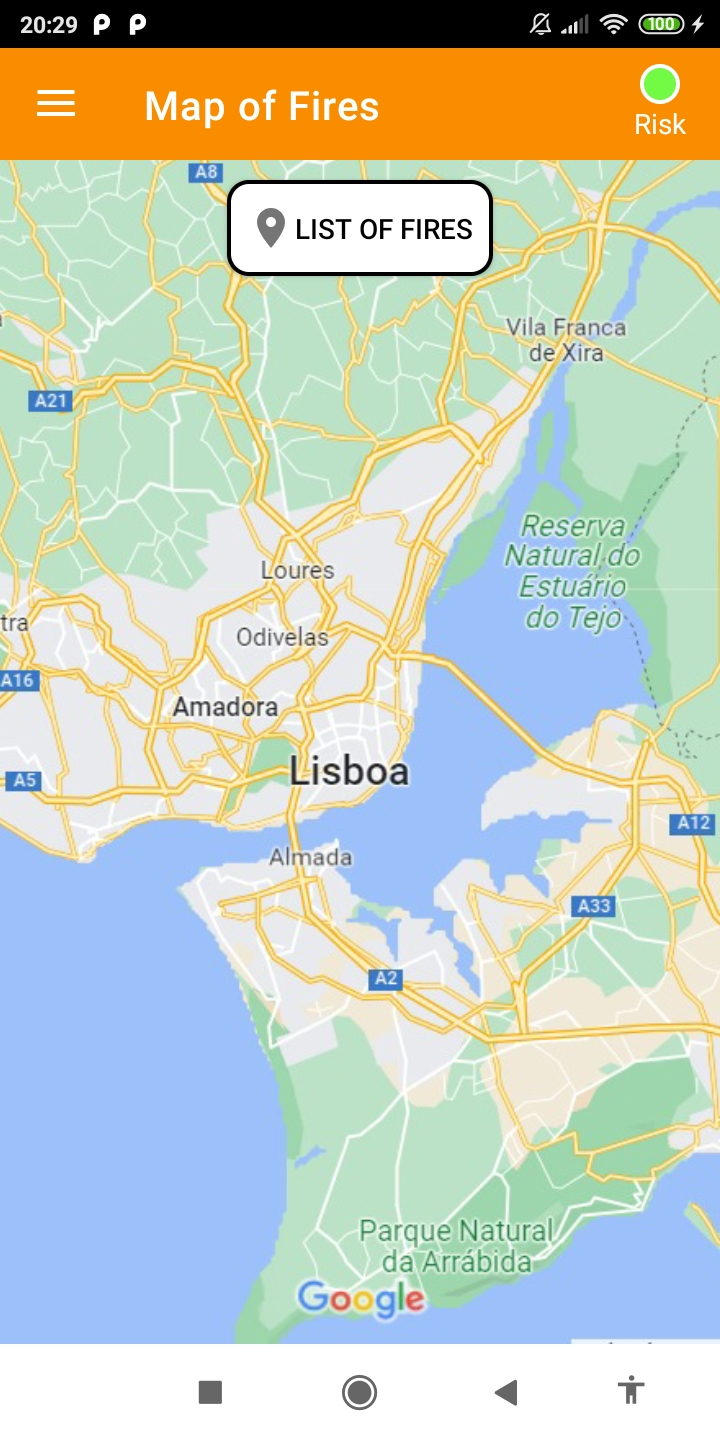
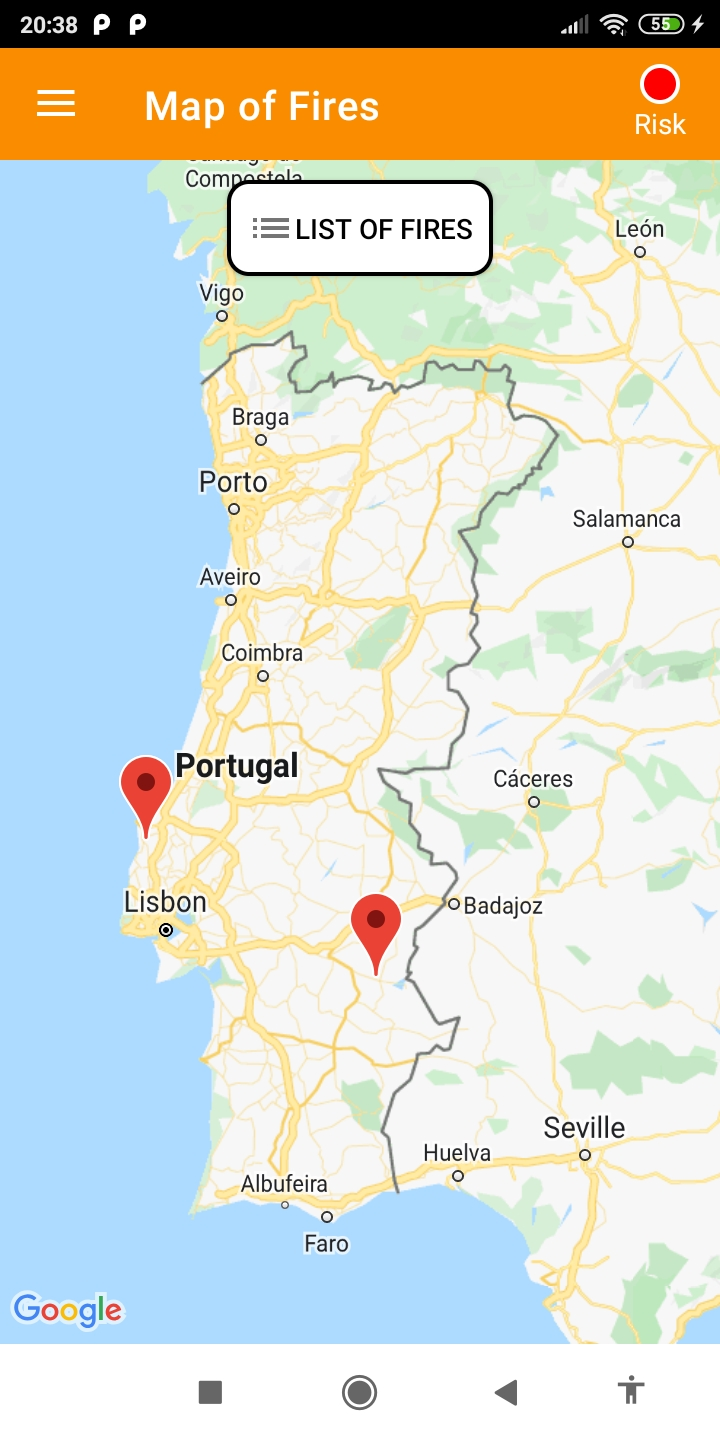
Readme 1/2 + Screenshot Mapa Atualizado

diff --git a/README.md b/README.md
@@ -17,6 +17,9 @@ Screenshots:
     <img width="33%" height="500em" src="Screenshots/Registro.jpg"/>
 </div>
 
+
+Tabela Parte 1:
+
 | Descrição | Implementado? |
 | ------ | ----------- |
 | Dashboard | Implementado |
@@ -30,10 +33,33 @@ Screenshots:
 | Navegabilidade | Implementado |
 | Extra | Implementado |
 
-Autoavaliação = 19
+
+
+Tabela Parte 2:
+
+| Descrição | Implementado? |
+| ------ | ----------- |
+| Dashboard | Implementado |
+| Filtro por nome do distrito | Implementado |
+| Filtro por raio circundante à localização do dispositivo | Implementado |
+| Apresentação dos incêndios -Lista (já com rotação)  | Implementado |
+| Apresentação dos incêndios - Mapa (com localização) | Implementado |
+| Detalhe do incêndio | Implementado |
+| Risco de zona |  |
+| Registo de incêndios | Implementado |
+| Autonomia |  |
+| Offline | Implementado |
+| Extra  | Implementado |
+| Video | Feito |
+
+Video ==
+
+Autoavaliação Parte 1 = 19
+Autoavaliação Parte 2 = 17
 
 Descrição do Ecrã Extra:
 Este ecrã terá informações sobre estatíscas variadas dos incêndios. \
+Agora na segunda parte as estatíscas vem de informações da API. \
 \
 Neste entrega temos as seguintes estatíscas:
 
